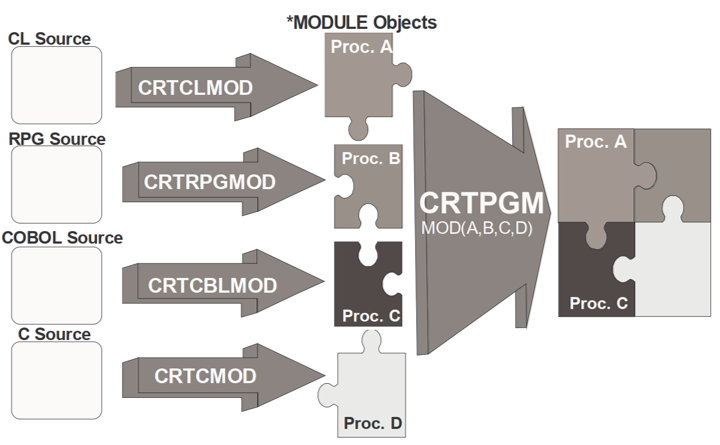
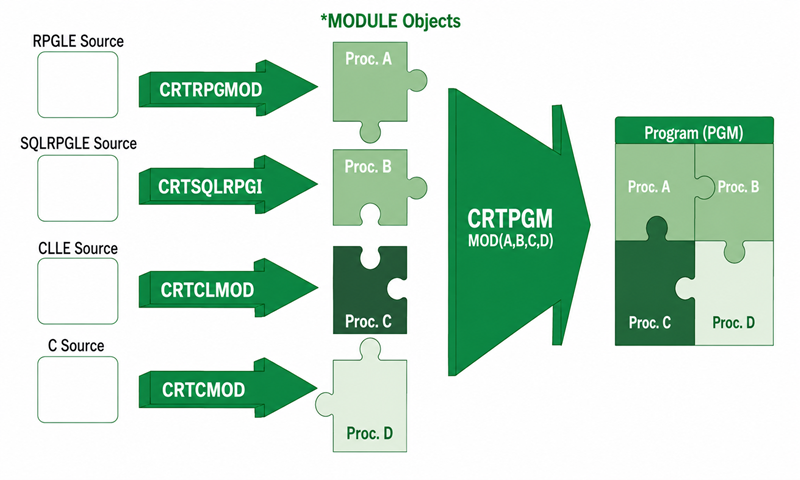
Changes

diff --git a/240. External procedures (ILE concepts).md b/240. External procedures (ILE concepts).md
@@ -1,6 +1,252 @@
 # External procedures (ILE concepts)
 
-## ILE Concepts
-* Prototypes
-* Service programs
-* Binding directories
+Internal procedures (see that chapter) live inside one program. This chapter covers the ILE concepts that let procedures be shared *between* programs: modules, service programs, and the activation groups and binding directories that tie it all together.
+
+
+## Activation groups
+
+An activation group is the memory space and set of resources (open files, allocated storage, ...) a program runs in.
+
+### Default activation group (OPM)
+
+Historically (OPM, the Original Program Model), every program ran in the one single, default activation group. When a program is called:
+
+- The program is loaded into memory.
+- Files are opened.
+- Variables are initialized.
+- ...
+
+Unloading (releasing all of this again) happens when `*inlr` (LR) is set on.
+
+### Named activation groups (ILE)
+
+ILE adds the ability to create separate, named activation groups. A group of related programs can then be loaded and unloaded together, as one unit, independently from everything else running in the same job, a "job within a job".
+
+- Programs sharing a named activation group are loaded and unloaded together.
+- `*inlr` still works the same as before, closing files and reinitializing variables for that one program, it does not by itself unload the whole activation group.
+
+### Unloading programs compared to taking out the trash
+
+- Carrying it out piece by piece, one trip at a time, to the dumpster: each program turning on `*inlr` individually.
+- Taking the truck into the house and loading everything into it in one go: the `RCLRSC` command, reclaims the resources of every program currently in the call stack at once.
+- Waiting until everything in the house is done, then throwing the whole house away: `SIGNOFF`, ending the entire job destroys everything in it.
+- Collecting everything into one bag, then carrying just that bag to the dumpster: an **activation group**. Everything sharing that named activation group can be reclaimed (`RCLACTGRP`) or ended together, as one unit, without touching the rest of the job.
+
+### Programs are compiled with an activation group
+
+- `ACTGRP(*NEW)`: a brand new activation group is created every time the program is called, and destroyed again when the program ends.
+- `ACTGRP(*CALLER)`: the activation group of whichever program called this one is reused. When there is none (for example, called from a command line), the default activation group is used instead.
+- `ACTGRP(name)`: a specific, named activation group is used (created the first time it is needed). It stays around until explicitly destroyed with `RCLACTGRP`, or until sign-off.
+
+The activation group is set either on the compile command, or with `ctl-opt`:
+
+```
+    CRTBNDRPG PGM(WRKORD)    DFTACTGRP(*NO) ACTGRP(*NEW)
+    CRTBNDRPG PGM(WRKORDDET) DFTACTGRP(*NO) ACTGRP(*CALLER)
+```
+
+```
+    ctl-opt dftactgrp(*no) actgrp('GCP');
+```
+
+
+## Modules
+
+A `*MODULE` is the direct output of compiling one RPG (or C, COBOL, ...) source, it groups one or more procedures together. A module is not directly callable by itself, it first needs to be bound into a program or a service program.
+
+- `nomain`: a module can be compiled with no main/cycle-based entry point at all (`ctl-opt nomain;`), it then only exports procedures, and has no program logic of its own to run.
+- Binding one or more modules together produces a `*PGM` object:
+
+![binding](./images/binding.png)
+
+- Binding modules into a program copies their compiled code into that program ("bind by copy"), the modules become part of the program itself.
+- Because of that copy, changing one of the modules means every program that was bound with it has to be recreated, to pick up the change. With many programs sharing the same module, this quickly becomes a maintenance problem, which is exactly what service programs (below) solve.
+
+
+### Prototypes
+
+Prototypes for a module's procedures are typically kept in their own source member, and pulled into every module that needs them with `/copy` (or `/include`, the two behave identically), instead of being retyped by hand everywhere. This is what keeps a procedure's prototype and its actual implementation in sync, even though they live in different, separately compiled source members.
+
+```
+   // member QCPYSRC(MATHUTIL_H) : the prototype, shared by everyone
+
+   dcl-pr roundAmount packed(9:2) extproc;
+      pAmount packed(9:4) const;
+   end-pr;
+```
+
+The module implementing the procedure `/copy`'s the exact same member, so the compiler can check that `dcl-pi` really matches the prototype:
+
+```
+   // member QRPGLESRC(MATHUTIL) : the module implementing it
+
+   ctl-opt nomain;
+
+   /copy qcpysrc,mathutil_h
+
+   dcl-proc roundAmount;
+      dcl-pi *n packed(9:2);
+         pAmount packed(9:4) const;
+      end-pi;
+
+      return %dec(pAmount:9:2);         // rounds to 2 decimals
+   end-proc;
+```
+
+A calling program `/copy`'s that same member as well, then calls the procedure exactly like an internal one:
+
+```
+   // member QRPGLESRC(ORDER001) : a program calling it
+
+   ctl-opt dftactgrp(*no) actgrp(*caller);
+
+   /copy qcpysrc,mathutil_h
+
+   dcl-s wRounded packed(9:2);
+
+   wRounded = roundAmount(12.3456);
+
+   dsply wRounded;                      // 12.35
+
+   *inlr = *on;
+```
+
+Both modules still need to be bound together into one program, this is done directly on the compile/bind command, no binding directory (further below) is needed for that:
+
+```
+CRTRPGMOD MODULE(MYLIB/ORDER001) SRCFILE(MYLIB/QRPGLESRC)
+CRTRPGMOD MODULE(MYLIB/MATHUTIL) SRCFILE(MYLIB/QRPGLESRC)
+
+CRTPGM PGM(MYLIB/ORDER001) MODULE(MYLIB/ORDER001 MYLIB/MATHUTIL)
+```
+
+- `extproc` without a value (unlike `extproc('sleep')` in the Calling programs and API's chapter) simply means: this prototype calls a bound procedure with the exact same name, the usual case for a project's own modules.
+- `nomain` (see above) is what makes `MATHUTIL` a pure procedure module, with no program logic of its own.
+- `MODULE(MYLIB/ORDER001 MYLIB/MATHUTIL)` is where the actual binding happens, both modules are listed explicitly and copied into the one program object, exactly as described above.
+- `dftactgrp(*no)` / `actgrp(*caller)` are still needed because this uses ILE procedures (see Activation groups, above), a binding directory only becomes useful once a service program is involved (see further below).
+
+
+## Service programs
+
+A service program (`*SRVPGM`) also groups one or more modules together, but instead of being copied into every caller, it stays a separate, shared object that many programs can call, bound "by reference".
+
+![service-program-binding](./images/service-program-binding.png)
+
+- Created with `CRTSRVPGM`, changed with `UPDSRVPGM`.
+- A regular program has one entry point, the program entry, called with `CALL`. A service program has multiple entry points instead, one per exported procedure, each called directly as a procedure call.
+- Because of that, a service program cannot be called from the command line, there is no single program entry to call.
+- A procedure called in a service program is *not* copied into the calling program, only a reference to the service program is kept. This is what solves the maintenance problem from the Modules section above: as long as its interface does not change, the service program can be recreated on its own, without recreating every program that calls it.
+
+### Export signature
+
+A service program carries an export signature, visible with `DSPSRVPGM`, essentially a fingerprint of its exported procedures. This signature gets baked into every program that binds to it at compile time.
+
+- If the service program's signature later changes incompatibly, programs that call it start failing at run time with a "signature violation", conceptually similar to a level check mismatch on a database file.
+- A signature violation can be resolved by:
+  - Recreating the calling program (always works, but means recompiling every caller).
+  - The `UPDPGM` command (re-links the program against the new service program, without a full recompile from source).
+  - Using binder language (below) to keep the signature under control in the first place.
+
+### Binder language
+
+A service program can contain many subprocedures, only the ones marked `export` are callable from outside it. Binder language explicitly lists which procedures are exported, and assigns the export signature by hand, instead of leaving it entirely up to the compiler. The binder source typically has the same name as the service program, and is kept in `QSRVSRC`.
+
+```
+STRPGMEXP PGMLVL(*CURRENT) SIGNATURE('BASE64R4 V1.00  ')
+   export symbol(base64_encode)
+   export symbol(base64_decode)
+ENDPGMEXP
+```
+
+- `PGMLVL(*CURRENT)` defines the current signature, older signatures can be kept alongside it (`PGMLVL(*PREV)`) so that programs bound against an earlier version keep working.
+- Each `export symbol(...)` line makes one procedure callable from outside the service program.
+- Adding a new procedure as a new `export symbol` line does not change the existing signature, so existing callers are unaffected, this is the disciplined way to grow a service program over time without causing signature violations.
+
+
+## Binding directories
+
+A binding directory is a named list of modules and service programs. Instead of a program listing every module or service program it needs individually, it just refers to the binding directory, with the same `bnddir` keyword already used earlier in this course (`ctl-opt bnddir('QC2LE');`, to reach the C runtime library).
+
+```
+CRTBNDDIR BNDDIR(MYLIB/MYPGMS)
+ADDBNDDIRE BNDDIR(MYLIB/MYPGMS) OBJ((MYLIB/BASE64 *SRVPGM))
+```
+
+```
+   ctl-opt bnddir('MYPGMS');
+```
+
+- `CRTBNDDIR` creates a new, empty binding directory.
+- `ADDBNDDIRE` adds one entry (a module or a service program) to it, `WRKBNDDIRE` lists and manages the entries already in one.
+- Once a service program is listed in a binding directory a program uses, any of its exported procedures can be called directly, without that program needing to know exactly which service program it came from.
+
+
+## Putting it together
+
+The same `roundAmount` module from the Modules section, now shared through a service program instead of being bound directly into every program that needs it. The module itself does not change at all:
+
+```
+   // member QRPGLESRC(MATHUTIL) : the module, exactly as before
+
+   ctl-opt nomain;
+
+   /copy qcpysrc,mathutil_h
+
+   dcl-proc roundAmount;
+      dcl-pi *n packed(9:2);
+         pAmount packed(9:4) const;
+      end-pi;
+
+      return %dec(pAmount:9:2);         // rounds to 2 decimals
+   end-proc;
+```
+
+Instead of binding it straight into a program, it is bound into a service program, together with binder source to control its export signature:
+
+```
+   // member QSRVSRC(MATHUTIL) : the binder source
+
+   STRPGMEXP PGMLVL(*CURRENT) SIGNATURE('MATHUTIL V1.00  ')
+      export symbol(roundAmount)
+   ENDPGMEXP
+```
+
+```
+CRTRPGMOD MODULE(MYLIB/MATHUTIL) SRCFILE(MYLIB/QRPGLESRC)
+
+CRTSRVPGM SRVPGM(MYLIB/MATHUTIL) MODULE(MYLIB/MATHUTIL) SRCFILE(MYLIB/QSRVSRC)
+```
+
+The service program is added to the same binding directory used above, instead of every calling program having to name it individually:
+
+```
+ADDBNDDIRE BNDDIR(MYLIB/MYPGMS) OBJ((MYLIB/MATHUTIL *SRVPGM))
+```
+
+The calling program's RPG source does not change either, it still `/copy`'s the same prototype and calls `roundAmount` the same way, it now just adds `bnddir('MYPGMS')`:
+
+```
+   // member QRPGLESRC(ORDER001) : a program calling it
+
+   ctl-opt dftactgrp(*no) actgrp(*caller) bnddir('MYPGMS');
+
+   /copy qcpysrc,mathutil_h
+
+   dcl-s wRounded packed(9:2);
+
+   wRounded = roundAmount(12.3456);
+
+   dsply wRounded;                      // 12.35
+
+   *inlr = *on;
+```
+
+```
+CRTRPGMOD MODULE(MYLIB/ORDER001) SRCFILE(MYLIB/QRPGLESRC)
+
+CRTPGM PGM(MYLIB/ORDER001) MODULE(MYLIB/ORDER001)
+```
+
+- Both the module's and the calling program's RPG source are completely unchanged from the plain-module version earlier, only the `CRT...` commands, and the `bnddir` on `ctl-opt`, differ.
+- Because `MATHUTIL` is resolved through the binding directory (in `ctl-opt`) rather than named directly on `CRTPGM`, `ORDER001` does not even need to be recreated if `MATHUTIL` is later replaced by a different service program with the same exported procedures, only the binding directory entry would need to change.
+- This binds by reference, exactly like `BNDSRVPGM` would: `ORDER001` only keeps a pointer to `MATHUTIL`, it is not copied in. `MATHUTIL` can be recreated on its own (a bug fix, for example) without ever touching `ORDER001` again, as long as its export signature does not change.

diff --git a/250. Data areas.md b/250. Data areas.md
@@ -1,0 +1,64 @@
+# Data areas and SQL sequences
+
+## Data areas
+
+A data area (`*DTAARA`) is a small, simple object that stores one value outside of any program. It is useful to share a value between jobs, or to keep a value across program calls, without needing a database file. The Local Data Area (LDA), covered in the Data structures chapter, is one special, always-available data area, this chapter covers user-created, named data areas.
+
+### DTAARA / IN / OUT
+
+A field (or data structure) is linked to a data area with the `dtaara('name')` keyword. `in` reads the current value into the field, `out` writes the field's value back to the data area.
+
+```
+   dcl-s sequence zoned(9) dtaara('COUNTER');
+
+   in *lock sequence;      // read the value, and lock the data area for update
+   sequence += 1;
+   out sequence;           // write the new value back, and release the lock
+```
+
+- `dtaara('COUNTER')` links the field to an existing data area named `COUNTER` (found through the library list), instead of the special value `*lda` used for the Local Data Area.
+- `in` alone just rereads the current value. Adding `*lock` also locks the data area exclusively, so no other job can read it with `*lock`, or update it, until it is unlocked again.
+- `out` writes the field back to the data area, and releases a lock taken with `in *lock`.
+- `unlock` releases a lock without writing a value back, for when the update turns out not to be needed after all.
+
+```
+   in *lock sequence;
+
+   if sequence >= 999999999;
+      unlock sequence;             // give up the lock, change nothing
+   else;
+      sequence += 1;
+      out sequence;
+   endif;
+```
+
+- The data area itself is created once, outside RPG, with the CL command `CRTDTAARA`, this chapter only covers using an existing one from RPG.
+- This lock/read/update/write pattern is a simple way to hand out a unique sequence number even when several jobs run the same program at the same time, without needing a keyed database file for it.
+
+
+## Sequences
+
+An SQL sequence is a database object that also generates unique numbers, an alternative to the data area technique above, and to an identity column (see the Embedded SQL chapter).
+
+```
+   dcl-s sequenceNumber zoned(8);
+
+   exec sql
+      select next value for order_sequence
+        into :sequenceNumber
+        from sysibm.sysdummy1;
+```
+
+- A sequence is created once, outside RPG (`create sequence order_sequence ...`). Unlike an identity column, it is not tied to one particular table, several tables (or a program, like above) can share the same sequence.
+- `next value for sequence-name` returns the next number and reserves it immediately, even if the current transaction is later rolled back that number is not reused, so gaps in the sequence are normal.
+- `sysibm.sysdummy1` is needed here for the same reason as with `identity_val_local()`: `select` requires a `from`, even though the value does not come from a real table.
+
+A sequence number like this is often combined into a single code together with part of the current date:
+
+```
+   return %char(%subdt(%date():*years)) + %editc(sequenceNumber:'X');
+```
+
+- `%subdt(value:unit)` extracts one part of a date, time or timestamp, here `*years` extracts just the current year.
+- `%editc(sequenceNumber:'X')` formats the sequence number while keeping its leading zeros, edit code `X` is the one edit code that does not suppress them (unlike the codes covered in the Built-in functions chapter).
+- Together this builds one code, for example `'2026000123'`: the current year followed by the zero-padded sequence number.

diff --git a/260. Data queues.md b/260. Data queues.md
@@ -1,0 +1,42 @@
+# Data queues
+
+A data queue (`*DTAQ`) is a fast, simple message queue: one job sends a piece of data onto the queue, another job (or the same job, later) receives it, in first-in-first-out order by default. It needs no locking and no journal, which makes it a common way for jobs to signal each other or hand over small amounts of data.
+
+
+## Sending and receiving : QSNDDTAQ / QRCVDTAQ
+
+```
+   dcl-pr sndDtaq extpgm('QSNDDTAQ');
+      qname  char(10) const;
+      qlib   char(10) const;
+      dtaLen packed(5:0) const;
+      dta    char(256) const;
+   end-pr;
+
+   dcl-pr rcvDtaq extpgm('QRCVDTAQ');
+      qname  char(10) const;
+      qlib   char(10) const;
+      dtaLen packed(5:0) const;
+      dta    char(256);
+      wait   packed(5:0) const;
+   end-pr;
+```
+
+```
+   sndDtaq('MYQUEUE' : 'MYLIB' : 11 : 'Hello world');
+
+   dcl-s wMessage char(256);
+
+   rcvDtaq('MYQUEUE' : 'MYLIB' : 256 : wMessage : 30);   // wait up to 30 seconds
+   dsply wMessage;
+```
+
+- `qname`/`qlib` identify the data queue, the queue itself is created once, outside RPG, with the CL command `CRTDTAQ`.
+- On `QSNDDTAQ`, `dtaLen` is the length of the data actually being sent, `dta` is that data.
+- On `QRCVDTAQ`, `dtaLen` is the maximum length to receive into `dta`, and `wait` is how long (in seconds) to wait for a message if the queue is currently empty: `0` does not wait at all, `-1` waits forever.
+- Because the queue only ever holds data, not a described record format, everything sent to it usually needs to be built up first (for example in a data structure), exactly the same way as for the IFS/C-runtime APIs in the Calling programs and API's chapter.
+
+
+## IBM i Services alternative
+
+Just like the classic system APIs seen elsewhere in this course, sending and receiving can also be done directly through embedded SQL, with `QSYS2.SEND_DATA_QUEUE` and `QSYS2.RECEIVE_DATA_QUEUE`, without needing the prototypes above. IBM keeps adding more of these SQL-based alternatives to older APIs, it is worth checking the IBM i Services documentation before writing a new prototype by hand.

diff --git a/README.md b/README.md
@@ -23,11 +23,12 @@ Only Fully Free Format RPG is in scope. Each chapter is a separate markdown file
 | [Calling programs and API's](<210. Calling programs and API's.md>) | Ready |
 | [Native file access](<220. Native file access.md>) | Ready |
 | [Embedded SQL](<230. Embedded SQL.md>) | Ready |
-| [External procedures (ILE concepts)](<240. External procedures (ILE concepts).md>) | Draft (outline only) |
-| [Data queues](<250. Data queues.md>) | Draft (outline only) |
-| [CGIDEV2](<260. CGIDEV2.md>) | Draft (outline only) |
-| [YAJL](<270. YAJL.md>) | Draft (outline only) |
-| [NoxDb](<280. NoxDb.md>) | Draft (outline only) |
+| [External procedures (ILE concepts)](<240. External procedures (ILE concepts).md>) | Ready |
+| [Data areas](<250. Data areas.md>) | Ready |
+| [Data queues](<260. Data queues.md>) | Ready |
+| [CGIDEV2](<270. CGIDEV2.md>) | Draft (outline only) |
+| [YAJL](<280. YAJL.md>) | Draft (outline only) |
+| [NoxDb](<290. NoxDb.md>) | Draft (outline only) |
 
 
 ## Other files

diff --git a/120. Quick start Fully Free Format RPG .md b/120. Quick start Fully Free Format RPG .md
@@ -107,7 +107,7 @@ Note: `*ESCAPE` does more than just send a message, it also raises an exception 
 
 Sources are compiled during a two step process.
 
-![binding](./images/ile-program-creation.png)
+![ile-program-creation](./images/ile-program-creation.png)
 
 First the source is compiled into a module (*MOD).
 
